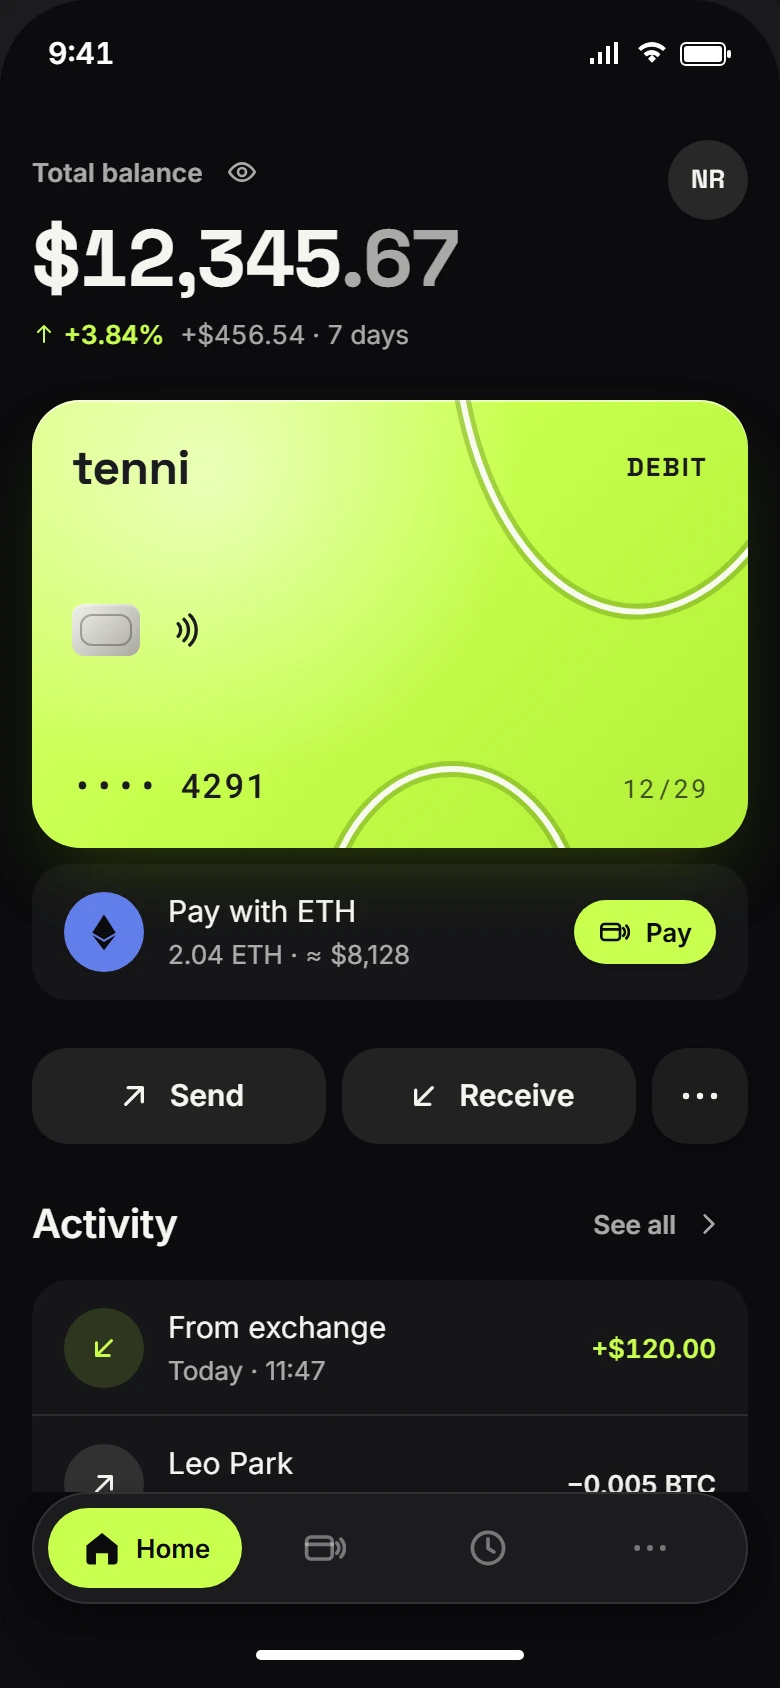
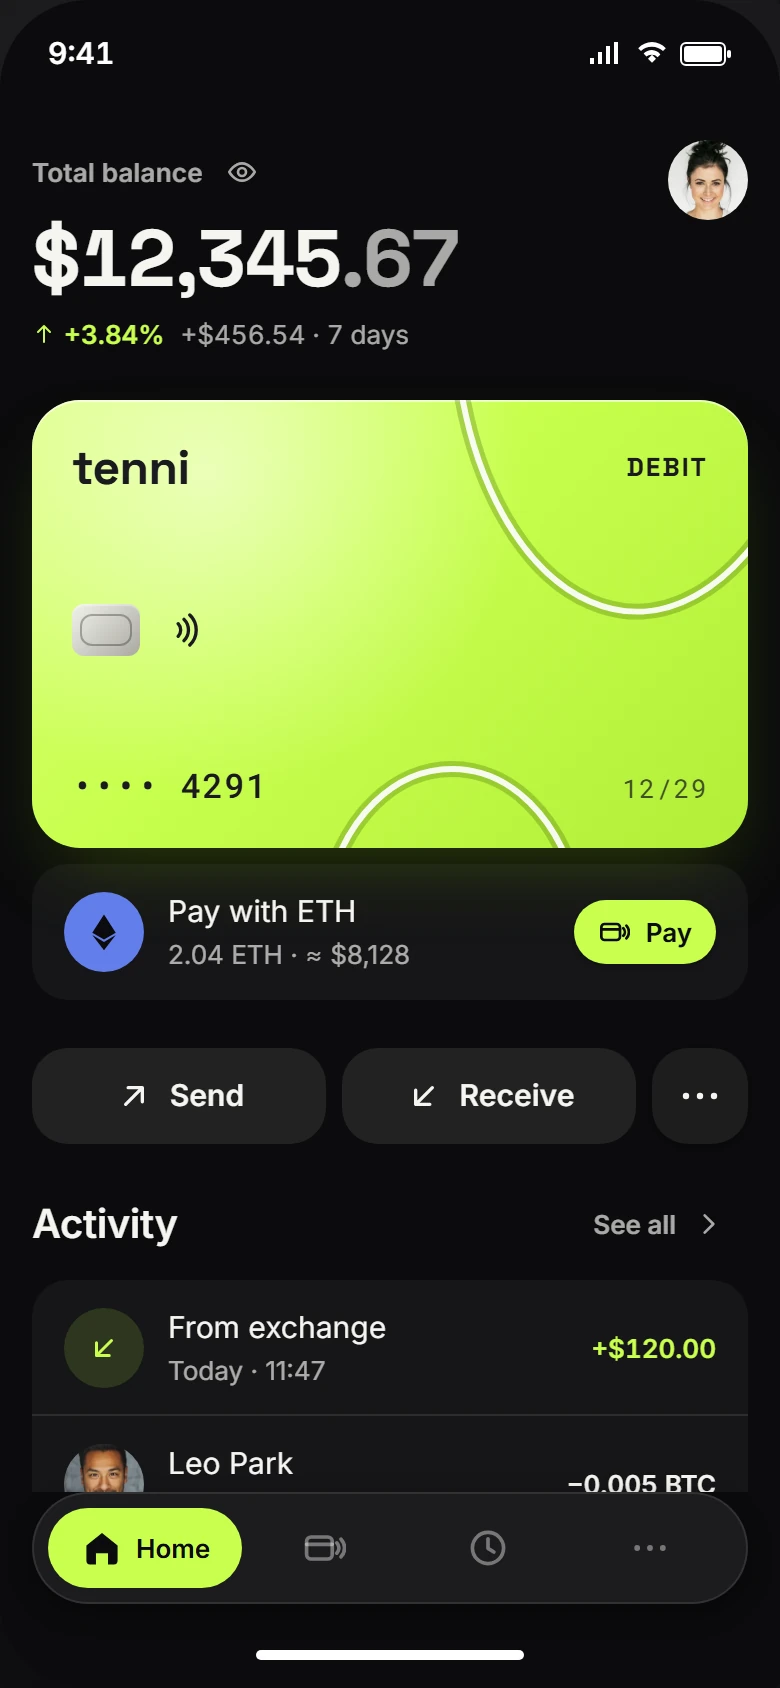
Onboarding welcome: CardStage, the card as the hero
The welcome screen leads with the card under a soft ball-colored light; it drops in and settles with one bounce, static under reduced motion. Case and landing images retaken with the photo avatar. 44 components.

Changed region(s): [[0.8615, 0.0616, 0.9538, 0.154], [0.0615, 0.8318, 0.1846, 0.8934]]

diff --git a/app/src/ui/CardStage.css b/app/src/ui/CardStage.css
@@ -1,0 +1,40 @@
+/* ============================================================
+   L4 · CardStage
+   column · W=fill H=fixed(300) · center · the light out of flow
+   ============================================================ */
+
+.CardStage {
+  display: flex;
+  flex-direction: column;
+  justify-content: center;
+  align-self: stretch;   /* Figma: Fill container */
+  height: 300px;
+  position: relative;    /* is-abs: anchor for the light */
+}
+
+.CardStage__light {
+  position: absolute;    /* is-abs: the court lamp behind the card */
+  inset: 0;
+  background: var(--card-stage-light);
+  pointer-events: none;
+}
+
+.CardStage__card {
+  display: flex;
+  flex-direction: column;
+  position: relative;    /* is-abs: above the light */
+  transform: rotate(-6deg);
+  animation: CardStage-drop 1000ms var(--ease-out) both;
+}
+
+/* Drops in, squashes on landing, settles — one ball bounce */
+@keyframes CardStage-drop {
+  0%   { transform: translateY(-48px) rotate(-14deg); opacity: 0; }
+  45%  { transform: translateY(10px) rotate(-5deg) scale(1.02, .96); opacity: 1; }
+  70%  { transform: translateY(-6px) rotate(-6.5deg); }
+  100% { transform: translateY(0) rotate(-6deg); }
+}
+
+@media (prefers-reduced-motion: reduce) {
+  .CardStage__card { animation: none; }
+}

diff --git a/app/src/ui/CardStage.jsx b/app/src/ui/CardStage.jsx
@@ -1,0 +1,28 @@
+import { CardVisual } from './CardVisual.jsx'
+import './CardStage.css'
+
+/**
+ * L4 · CardStage — the card as the hero of a screen (onboarding welcome)
+ *
+ * The card, a little tilted, under a soft ball-colored light — a court
+ * lamp, not a glow on every surface. On mount it drops in and settles
+ * with one bounce, the same ball motion as PayMoment's success. Static
+ * under prefers-reduced-motion.
+ *
+ * Sizing contract (Figma):
+ *   column · W=fill H=fixed(300) · center
+ *   ├ light — Absolute position, behind
+ *   └ CardVisual (md, W=fill) rotated −6°
+ *
+ * props: holder, last4
+ */
+export function CardStage({ holder, last4, className = '', ...rest }) {
+  return (
+    <div className={['CardStage', className].filter(Boolean).join(' ')} {...rest}>
+      <span className="CardStage__light" aria-hidden="true" />
+      <div className="CardStage__card">
+        <CardVisual skin="ball" kind="debit" holder={holder} last4={last4} />
+      </div>
+    </div>
+  )
+}

diff --git a/app/src/screens/OnboardingScreen.jsx b/app/src/screens/OnboardingScreen.jsx
@@ -1,7 +1,7 @@
 import { useState } from 'react'
 import {
   Screen, AppBar, Stack, Text, Button, Surface, ListRow, Toggle,
-  Avatar, CardVisual, ProgressDots, Banner,
+  Avatar, CardStage, ProgressDots, Banner,
 } from '../ui/index.js'
 import { USER, CARD_LAST4 } from './data.js'
 
@@ -21,9 +21,9 @@ const STEPS = ['welcome', 'biometric', 'choice']
 
 function WelcomeStep({ onNext }) {
   return (
-    <Stack fill justify="between" gap={32}>
-      <Stack fill justify="center" gap={32}>
-        <CardVisual skin="ball" kind="debit" holder={USER.holder} last4={CARD_LAST4} />
+    <Stack fill justify="between" gap={24}>
+      <Stack fill justify="center" gap={24}>
+        <CardStage holder={USER.holder} last4={CARD_LAST4} />
         <Stack gap={12}>
           <Stack gap={0}>
             <Text variant="display">Your card.</Text>

diff --git a/app/src/tokens/semantic.css b/app/src/tokens/semantic.css
@@ -90,6 +90,7 @@
   --phone-screen: linear-gradient(180deg, #131316 0%, #0B0B0D 100%);
   --card-bg:      linear-gradient(135deg, #26262A 0%, #1C1C1F 55%, #0B0B0D 100%);
   --card-glow:    rgba(200, 255, 77, .22);
+  --card-stage-light: radial-gradient(closest-side, rgba(200, 255, 77, .22), transparent);
 
   /* --- Glass --- */
   --glass-bg:     rgba(245, 245, 240, .07);
@@ -170,6 +171,7 @@
   --phone-screen: linear-gradient(180deg, #F8F8F4 0%, #ECECE7 50%, #DCDCD6 100%);
   --card-bg:      linear-gradient(135deg, #1A1A1F 0%, #3A3A40 60%, #15151A 100%);
   --card-glow:    rgba(200, 200, 200, .25);
+  --card-stage-light: radial-gradient(closest-side, rgba(200, 255, 77, .45), transparent);
 
   --glass-bg:     rgba(255, 255, 255, .62);
   --glass-border: rgba(255, 255, 255, .85);

diff --git a/app/src/App.jsx b/app/src/App.jsx
@@ -107,7 +107,7 @@ function Catalog({ routeId }) {
           <Stack gap={6}>
             <Text variant="h1">{route.title || route.label}</Text>
             <Text variant="bodySm" tone="dim">
-              {ICON_NAMES.length} icons · 43 components · 7 screens · built to Figma Auto Layout rules
+              {ICON_NAMES.length} icons · 44 components · 7 screens · built to Figma Auto Layout rules
             </Text>
           </Stack>
           <Button

diff --git a/app/src/pages/Case.jsx b/app/src/pages/Case.jsx
@@ -24,7 +24,7 @@ const FACTS = [
   ['Product', 'Crypto wallet with a debit card'],
   ['Platform', 'iOS, 390 × 844'],
   ['Scope', 'UX flows · UI · design system · coded prototype'],
-  ['System', `43 components · ${ICON_NAMES.length} icons · 2 themes`],
+  ['System', `44 components · ${ICON_NAMES.length} icons · 2 themes`],
 ]
 
 const TRY = [

diff --git a/app/src/ui/index.js b/app/src/ui/index.js
@@ -38,6 +38,7 @@ export { Banner } from './Banner.jsx'
 export { Modal } from './Modal.jsx'
 export { BottomSheet } from './BottomSheet.jsx'
 export { PayMoment } from './PayMoment.jsx'
+export { CardStage } from './CardStage.jsx'
 export { EmptyState } from './EmptyState.jsx'
 export { LockOverlay } from './LockOverlay.jsx'
 

diff --git a/landing/index.html b/landing/index.html
@@ -61,7 +61,7 @@
         </div>
         <dl class="hero-stats">
           <div><dt>7</dt><dd>Screens</dd></div>
-          <div><dt>43</dt><dd>Components</dd></div>
+          <div><dt>44</dt><dd>Components</dd></div>
           <div><dt>2</dt><dd>Themes</dd></div>
         </dl>
       </div>

diff --git a/docs/COMPONENTS.md b/docs/COMPONENTS.md
@@ -343,6 +343,12 @@ W=fixed(320) H=fixed(240) · CardVisual sm (280×176) centered · waves (3 rings
 props: state (processing|success|declined), last4
 The card at the moment of payment: waves + hover while processing, one ball-like bounce and a check on success, a flinch, desaturation and a cross on decline. Static under prefers-reduced-motion. In Figma: three State variants joined with Smart Animate.
 
+### CardStage
+
+column · W=fill H=fixed(300) · center · light (Absolute position) behind · CardVisual md rotated −6°
+props: holder, last4
+The card as the hero of a screen (onboarding welcome): a soft ball-colored light behind it; on mount it drops in and settles with one bounce. Static under prefers-reduced-motion.
+
 ## L5 · Navigation and frame
 
 ### StatusBar
@@ -400,8 +406,8 @@ props: title, action, actionLabel, onAction, padding (0|16)
 | L1 Primitives | 6 — Icon, Text, Stack, Divider, Layer, Surface |
 | L2 Controls | 11 — Button, IconButton, Input, Toggle, Checkbox, Radio, Segmented, Chip, Badge, Keypad, Slider |
 | L3 Data display | 12 — Avatar, AssetIcon, Amount, Balance, Skeleton, Sparkline, Donut, ProgressDots, QRBlock, ListRow, TransactionRow, CardVisual |
-| L4 Feedback | 7 — Toast, Banner, Modal, BottomSheet, EmptyState, LockOverlay, PayMoment (+ 6 illustrations) |
+| L4 Feedback | 8 — Toast, Banner, Modal, BottomSheet, EmptyState, LockOverlay, PayMoment, CardStage (+ 6 illustrations) |
 | L5 Navigation | 7 — StatusBar, AppBar, TabBar, NavItem, HomeIndicator, Section, Screen |
-| **Total** | **43** |
+| **Total** | **44** |
 
 Plus 71 icons in 6 packs (68 line, including 4 spending categories, + 3 filled tab twins) and 10 type styles.

diff --git a/README.md b/README.md
@@ -41,7 +41,7 @@ Key decisions:
 
 - **7 screens** wired into one clickable prototype: Onboarding, Home, Pay,
   Send, Receive, Activity, Settings + Profile
-- **43 components**, from primitives (`Text`, `Stack`, `Surface`) to product
+- **44 components**, from primitives (`Text`, `Stack`, `Surface`) to product
   blocks (`ListRow`, `CardVisual`, `LockOverlay`); screens are assembled from
   them with no screen-level CSS
 - **71 icons** in 6 packs on one geometry (24×24 viewBox, 2 stroke): 68 line icons (with four spending categories) plus filled twins of three tab icons
